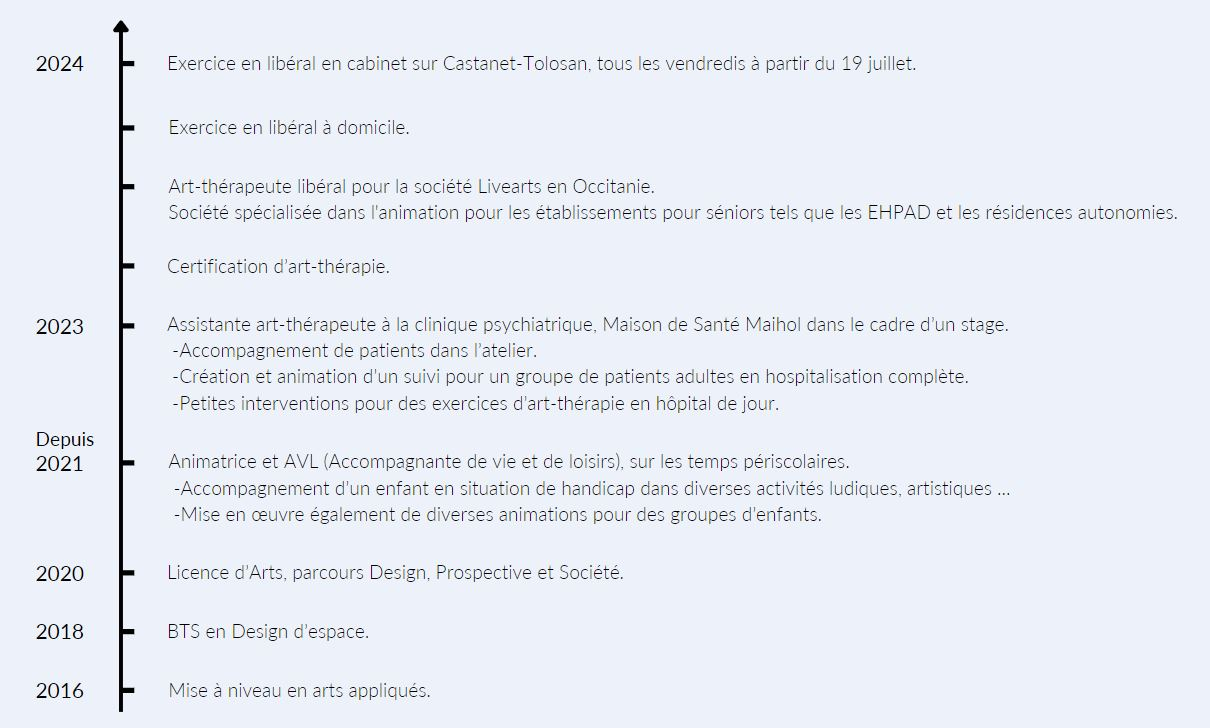
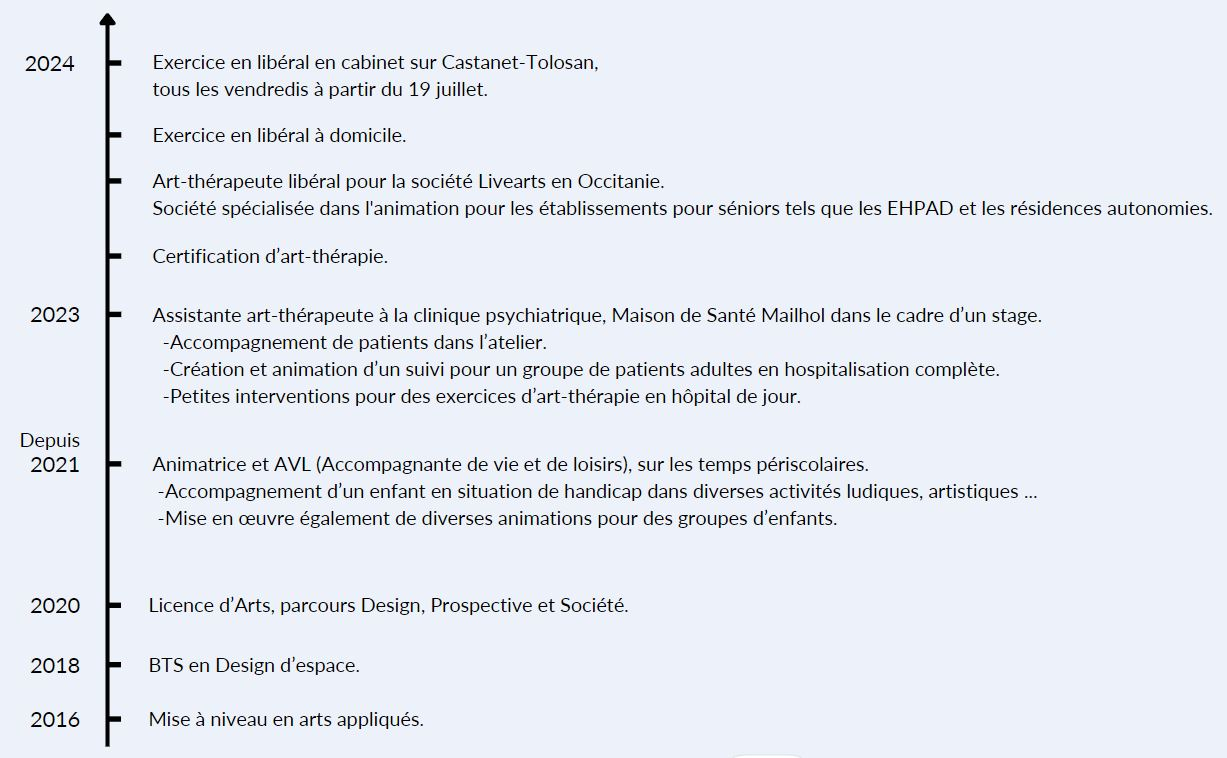
vrai fin

diff --git a/src/app/app.component.html b/src/app/app.component.html
@@ -665,7 +665,7 @@
         style="cursor: pointer; padding-left: 5%"
         >Zoé BERTRAND<span
           class="color-sous-titre font-lato"
-          style="font-size: 15px"
+          style="font-size: 85%"
           ><b> - ART-THÉRAPEUTE</b></span
         ></span
       >
@@ -694,7 +694,7 @@
           <span>À PROPOS</span>
         </button>
         <button (click)="navigateArtTherapie()" mat-menu-item>
-          <span>L'ART-THERAPIE</span>
+          <span>L'ART-THÉRAPIE</span>
         </button>
         <button (click)="navigateConsultations()" mat-menu-item>
           <span>CONSULTATIONS</span>
@@ -837,19 +837,89 @@
           </span>
         </div>
         <br />
+        <br>
+        <br>
+        <br>
         <div
           class="text-style"
-          style="display: flex; justify-content: center; font-size: 150%"
+          style="display: flex; justify-content: center; font-size: 200%"
         >
           PARCOURS
         </div>
-        <div></div>
+        <br>
+        <div><span class="text-style-roboto">2024</span></div>
+
+        <div>
+          <span class="font-lato" style="font-size: 120%; line-height: 1.5"
+            ><b>Exercice en libéral en cabinet sur Castanet-Tolosan, tous les
+            vendredis à partir du 19 juillet.</b></span
+          >
+        </div>
+<br>
+        <div><span class="font-lato" style="font-size: 120%; line-height: 1.5"><b>Exercice en libéral à domicile.</b></span></div>
+<br>
+        <div>
+          <span class="font-lato" style="font-size: 120%; line-height: 1.5"><b>
+            Art-thérapeute libéral pour la société Livearts en Occitanie. <br>
+            Société spécialisée dans l'animation pour les établissements pour
+            séniors tels que les EHPAD et les résidences autonomies.</b>
+          </span>
+        </div>
+<br>
+        <div><span class="font-lato" style="font-size: 120%; line-height: 1.5"><b>Certification d’art-thérapie. </b></span></div>
+<br><br>
+        <div><span class="text-style-roboto"> 2023 </span></div>
+
+        <div>
+          <span class="font-lato" style="font-size: 120%; line-height: 1.5"><b>
+            Assistante art-thérapeute à la clinique psychiatrique, Maison de
+            Santé Mailhol dans le cadre d’un stage. <br>-Accompagnement de patients
+            dans l’atelier. <br>-Création et animation d’un suivi pour un groupe de
+            patients adultes en hospitalisation complète. <br>-Petites interventions
+            pour des exercices d’art-thérapie en hôpital de jour.</b>
+          </span>
+        </div>
+<br><br>
+        <div><span class="text-style-roboto"> Depuis 2021 </span></div>
+
+        <div>
+          <p class="font-lato" style="font-size: 120%; line-height: 1.5"
+            ><b>Animatrice et AVL (Accompagnante de vie et de loisirs), sur les
+            temps périscolaires. <br>-Accompagnement d’un enfant en situation de
+            handicap dans diverses activités ludiques, artistiques ... <br>-Mise en
+            œuvre également de diverses animations pour des groupes
+            d’enfants.</b></p
+          >
+        </div>
+<br>
+        <div><span class="text-style-roboto"> 2020 </span></div>
+
+        <div>
+          <span class="font-lato" style="font-size: 120%; line-height: 1.5"><b>
+            Licence d’Arts, parcours Design, Prospective et Société.</b>
+          </span>
+        </div>
+<br>
+        <div><span class="text-style-roboto"> 2018 </span></div>
+
+        <div>
+          <span class="font-lato" style="font-size: 120%; line-height: 1.5"
+            ><b> BTS en Design d’espace. </b></span
+          >
+        </div>
+<br>
+        <div>
+          <span class="text-style-roboto"> 2016 </span>
+        </div>
+
+        <div>
+          <span class="font-lato" style="font-size: 120%; line-height: 1.5"
+            ><b> Mise à niveau en arts appliqués.</b>
+          </span>
+        </div>
+        <br><br><br>
       </div>
-      <img
-        src="../assets/images/FChrono2.JPG"
-        alt=""
-        style="width: 100%; box-shadow: 0px 2px 5px rgba(0, 0, 0, 0.2)"
-      />
+      <div></div>
     </div>
 
     <div *ngIf="isArtTherapie">
@@ -1098,19 +1168,24 @@
             </div>
             <div>
               <br />
-              
 
               <p class="font-lato" style="font-size: 120%; line-height: 1.5">
-                <span class="text-style-roboto" style="font-size: 100%">En mettant en couleurs et en formes vos pensées, vos émotions
-                  et vos expériences,</span><b> vous pourrez découvrir de nouveaux aspects
-                  de vous-même, développer votre créativité et trouver des
-                  moyens uniques de vous exprimer et de vous comprendre ! <br><br>Les
-                  ateliers vous encouragent à vous explorer, afin de </b><span class="text-style-roboto" style="font-size: 100%">remodeler
-                  progressivement la perception que vous avez de vous-même.</span><b>
+                <span class="text-style-roboto" style="font-size: 100%"
+                  >En mettant en couleurs et en formes vos pensées, vos émotions
+                  et vos expériences,</span
+                ><b>
+                  vous pourrez découvrir de nouveaux aspects de vous-même,
+                  développer votre créativité et trouver des moyens uniques de
+                  vous exprimer et de vous comprendre ! <br /><br />Les ateliers
+                  vous encouragent à vous explorer, afin de </b
+                ><span class="text-style-roboto" style="font-size: 100%"
+                  >remodeler progressivement la perception que vous avez de
+                  vous-même.</span
+                ><b>
                   Cette démarche de découverte de soi se déroule à votre rythme,
                   avec pour objectif une transformation positive.
-              </b></p>
-
+                </b>
+              </p>
             </div>
             <br />
           </div>

diff --git a/src/app/app.component.ts b/src/app/app.component.ts
@@ -12,10 +12,10 @@ export class AppComponent implements OnInit {
   @ViewChild('contentToCopy', { static: true }) contentToCopy!: ElementRef;
 
   isAPropos:boolean = false;
-  isArtTherapie:boolean = true;
+  isArtTherapie:boolean = false;
   isConsultations:boolean = false;
   isContact:boolean = false;
-  isPP:boolean = false;
+  isPP:boolean = true;
   isProgramme:boolean = false;
 
   isTouchDevice?: boolean;
@@ -29,6 +29,8 @@ export class AppComponent implements OnInit {
   ngOnInit() {
     this.isTouchDevice = navigator.maxTouchPoints > 0;
     console.log(this.isTouchDevice);
+
+    console.log("yo, zoui, gang gang ! Agent K")
   }
 
   
